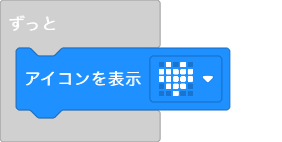
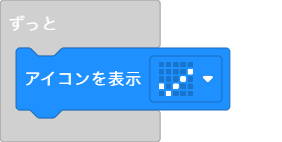
更新 pxt.json, main.blocks, main.ts

Changed region(s): [[0.539, 0.4225, 0.7092, 0.6761]]

diff --git a/main.ts b/main.ts
@@ -1,3 +1,3 @@
 basic.forever(function () {
-    basic.showIcon(IconNames.Heart)
+    basic.showIcon(IconNames.Yes)
 })
